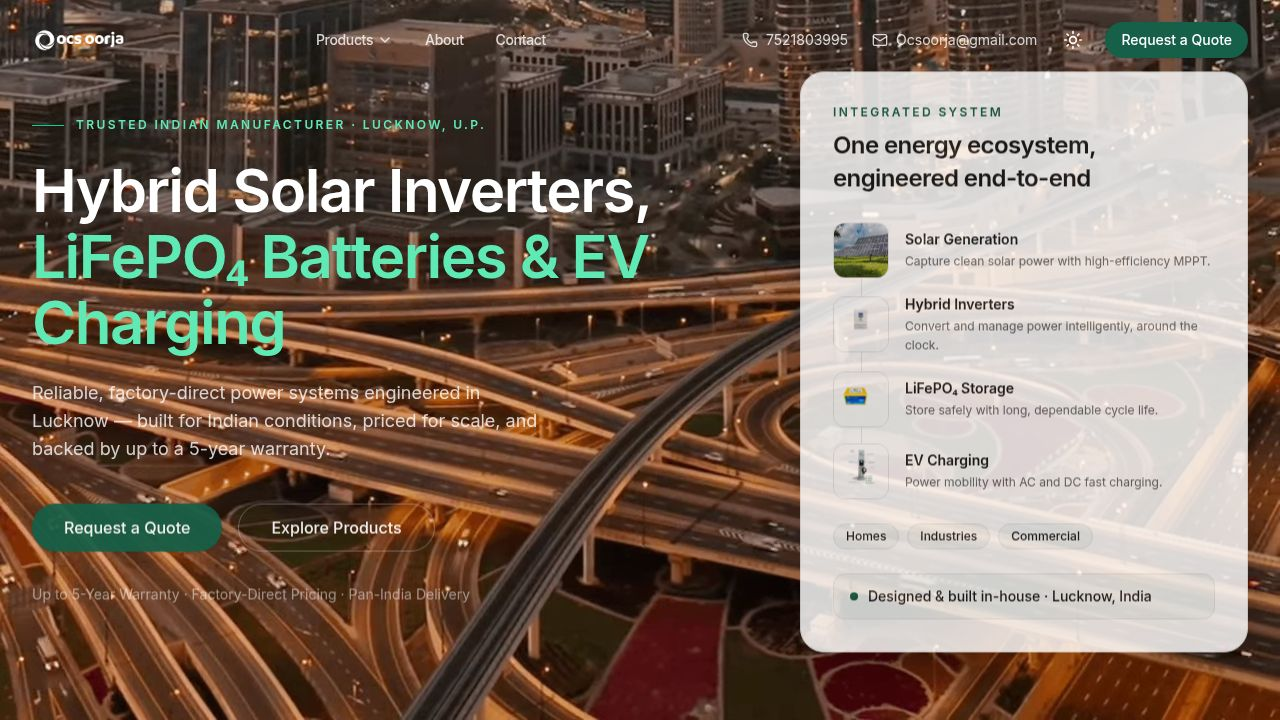
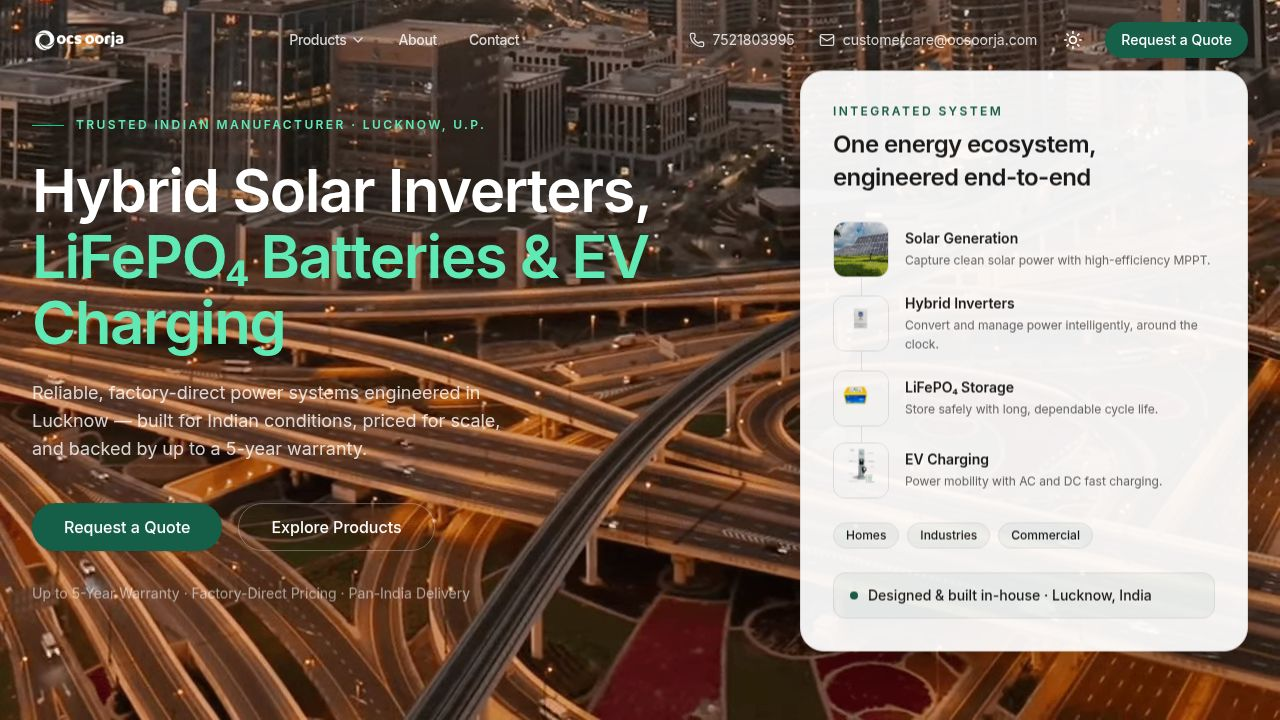
Update website with consistent branding and analytics integration
Centralize site URL and integrate analytics tracking.

Replit-Commit-Author: Agent
Replit-Commit-Session-Id: 6584d2dc-0530-4ae5-95c5-868c3bc24474
Replit-Commit-Checkpoint-Type: full_checkpoint
Replit-Commit-Event-Id: 49f1b618-2b90-4123-950a-4292b9a76e43
Replit-Commit-Screenshot-Url: https://storage.googleapis.com/screenshot-production-us-central1/fdc94f87-8827-4353-a8b5-27162a15f304/6584d2dc-0530-4ae5-95c5-868c3bc24474/MlaVYks
Replit-Helium-Checkpoint-Created: true

diff --git a/artifacts/ocs-oorja/src/components/Analytics.tsx b/artifacts/ocs-oorja/src/components/Analytics.tsx
@@ -1,0 +1,57 @@
+import { useEffect } from "react";
+import { useLocation } from "wouter";
+import { SITE } from "@/data/site";
+
+// Loads Google Analytics 4 (gtag) and the Search Console verification meta tag
+// ONLY when their values are filled in `src/data/site.ts`. Both stay OFF while
+// the corresponding config value is an empty string. Also records a page view
+// on every in-app route change (single-page-app navigation).
+export function Analytics() {
+  const [location] = useLocation();
+
+  // One-time: inject the Search Console "HTML tag" verification meta.
+  useEffect(() => {
+    const token = SITE.googleSiteVerification;
+    if (!token) return;
+    if (document.querySelector('meta[name="google-site-verification"]')) return;
+    const meta = document.createElement("meta");
+    meta.setAttribute("name", "google-site-verification");
+    meta.setAttribute("content", token);
+    document.head.appendChild(meta);
+  }, []);
+
+  // One-time: load and initialise GA4.
+  useEffect(() => {
+    const id = SITE.ga4MeasurementId;
+    if (!id || document.getElementById("ga4-src")) return;
+
+    const lib = document.createElement("script");
+    lib.id = "ga4-src";
+    lib.async = true;
+    lib.src = `https://www.googletagmanager.com/gtag/js?id=${id}`;
+    document.head.appendChild(lib);
+
+    const init = document.createElement("script");
+    init.id = "ga4-init";
+    init.innerHTML =
+      `window.dataLayer=window.dataLayer||[];` +
+      `function gtag(){dataLayer.push(arguments);}` +
+      `gtag('js',new Date());` +
+      `gtag('config','${id}',{send_page_view:false});`;
+    document.head.appendChild(init);
+  }, []);
+
+  // Track a page view on each route change (initial load included).
+  useEffect(() => {
+    if (!SITE.ga4MeasurementId) return;
+    const w = window as unknown as { gtag?: (...args: unknown[]) => void };
+    if (typeof w.gtag !== "function") return;
+    w.gtag("event", "page_view", {
+      page_path: location,
+      page_location: window.location.href,
+      page_title: document.title,
+    });
+  }, [location]);
+
+  return null;
+}

diff --git a/artifacts/ocs-oorja/vite.config.ts b/artifacts/ocs-oorja/vite.config.ts
@@ -3,6 +3,36 @@ import react from "@vitejs/plugin-react";
 import tailwindcss from "@tailwindcss/vite";
 import path from "path";
 import runtimeErrorOverlay from "@replit/vite-plugin-runtime-error-modal";
+import fs from "fs";
+import { SITE } from "./src/data/site";
+import { products } from "./src/data/products";
+
+// Generate public/sitemap.xml from the current routes + product catalog so it
+// stays in sync automatically — adding a product never requires editing the
+// sitemap. Runs on every `vite` / `vite build` invocation.
+function generateSitemap() {
+  try {
+    const staticPaths = ["/", "/about", "/contact", "/products"];
+    const productPaths = products.map((p) => `/products/${p.slug}`);
+    const today = new Date().toISOString().slice(0, 10);
+    const urls = [...staticPaths, ...productPaths]
+      .map((p) => {
+        const priority =
+          p === "/" ? "1.0" : p.startsWith("/products/") ? "0.7" : "0.8";
+        return `  <url>\n    <loc>${SITE.url}${p}</loc>\n    <lastmod>${today}</lastmod>\n    <changefreq>weekly</changefreq>\n    <priority>${priority}</priority>\n  </url>`;
+      })
+      .join("\n");
+    const xml = `<?xml version="1.0" encoding="UTF-8"?>\n<urlset xmlns="http://www.sitemaps.org/schemas/sitemap/0.9">\n${urls}\n</urlset>\n`;
+    fs.writeFileSync(
+      path.resolve(import.meta.dirname, "public/sitemap.xml"),
+      xml,
+    );
+  } catch (err) {
+    console.warn("[sitemap] generation skipped:", err);
+  }
+}
+
+generateSitemap();
 
 const rawPort = process.env.PORT;
 

diff --git a/artifacts/ocs-oorja/src/data/site.ts b/artifacts/ocs-oorja/src/data/site.ts
@@ -1,0 +1,24 @@
+// =============================================================================
+// OCS OORJA — Site-wide technical configuration (SINGLE SOURCE)
+// =============================================================================
+// Non-developers: this file holds a few site-wide settings. Paste the values
+// Google gives you and the features switch on automatically — no other edit is
+// needed anywhere. Leave a value as an empty string ("") to keep it OFF.
+// =============================================================================
+
+export const SITE = {
+  // The site's public address. Used for canonical URLs and the sitemap.
+  // No trailing slash.
+  url: "https://www.ocsoorja.com",
+
+  // Google Analytics 4 Measurement ID, e.g. "G-XXXXXXXXXX".
+  // Find it in Google Analytics → Admin → Data streams → your web stream.
+  // Leave "" to keep analytics OFF.
+  ga4MeasurementId: "",
+
+  // Google Search Console verification token — the value inside the
+  // <meta name="google-site-verification" content="…"> tag Google gives you
+  // when you choose the "HTML tag" method. Leave "" if you verified another
+  // way (e.g. through Google Analytics or a DNS record).
+  googleSiteVerification: "",
+} as const;

diff --git a/artifacts/ocs-oorja/index.html b/artifacts/ocs-oorja/index.html
@@ -3,15 +3,25 @@
   <head>
     <meta charset="UTF-8" />
     <meta name="viewport" content="width=device-width, initial-scale=1.0, maximum-scale=1" />
-    <title>OCS OORJA</title>
-    <meta name="description" content="OCS OORJA — built on Replit. Update this description to reflect the app." />
+    <title>OCS OORJA — Hybrid Solar Inverters, LiFePO₄ Batteries &amp; EV Chargers</title>
+    <meta name="description" content="OCS OORJA is an Indian manufacturer of hybrid solar inverters, LiFePO₄ batteries, energy storage (BESS) and EV chargers — factory-direct power systems engineered in Lucknow for Indian conditions." />
     <meta name="robots" content="index, follow" />
-    <meta property="og:title" content="OCS OORJA" />
-    <meta property="og:description" content="OCS OORJA — built on Replit. Update this description to reflect the app." />
+    <link rel="canonical" href="https://www.ocsoorja.com/" />
+
+    <!-- Open Graph (Facebook, LinkedIn, WhatsApp) -->
     <meta property="og:type" content="website" />
+    <meta property="og:site_name" content="OCS OORJA" />
+    <meta property="og:title" content="OCS OORJA — Clean Energy &amp; EV Charging Manufacturer" />
+    <meta property="og:description" content="Hybrid solar inverters, LiFePO₄ batteries, energy storage (BESS) and EV chargers — factory-direct, engineered in Lucknow for Indian conditions." />
+    <meta property="og:url" content="https://www.ocsoorja.com/" />
+    <meta property="og:image" content="https://www.ocsoorja.com/opengraph.jpg" />
+
+    <!-- Twitter / X -->
     <meta name="twitter:card" content="summary_large_image" />
-    <meta name="twitter:title" content="OCS OORJA" />
-    <meta name="twitter:description" content="OCS OORJA — built on Replit. Update this description to reflect the app." />
+    <meta name="twitter:title" content="OCS OORJA — Clean Energy &amp; EV Charging Manufacturer" />
+    <meta name="twitter:description" content="Hybrid solar inverters, LiFePO₄ batteries, energy storage (BESS) and EV chargers — factory-direct, engineered in Lucknow for Indian conditions." />
+    <meta name="twitter:image" content="https://www.ocsoorja.com/opengraph.jpg" />
+
     <link rel="icon" type="image/svg+xml" href="/favicon.svg" />
     <link rel="preconnect" href="https://fonts.googleapis.com">
     <link rel="preconnect" href="https://fonts.gstatic.com" crossorigin>

diff --git a/artifacts/ocs-oorja/src/lib/seo.ts b/artifacts/ocs-oorja/src/lib/seo.ts
@@ -3,6 +3,7 @@
  */
 
 import { BRAND, CONTACT } from "@/data/brand";
+import { SITE } from "@/data/site";
 
 interface OrganizationSchema {
   "@context": string;
@@ -81,8 +82,8 @@ export function getOrganizationSchema(): OrganizationSchema {
     "@type": "Organization",
     name: "OCS OORJA",
     alternateName: "OCS OORJA Green Energy Solutions",
-    url: "https://www.ocsoorja.com",
-    logo: "https://www.ocsoorja.com/images/OCS_OORJA_logo_landscape.png",
+    url: SITE.url,
+    logo: `${SITE.url}/images/OCS_OORJA_logo_landscape.png`,
     description: BRAND.positioning,
     address: {
       "@type": "PostalAddress",

diff --git a/artifacts/ocs-oorja/src/components/layout/Footer.tsx b/artifacts/ocs-oorja/src/components/layout/Footer.tsx
@@ -39,10 +39,10 @@ export default function Footer() {
         <div className="space-y-5">
           <h3 className="text-sm font-semibold">Contact</h3>
           <ul className="space-y-3 text-sm text-foreground/70">
-            <li className="flex items-start gap-3"><Phone className="mt-1 h-4 w-4 flex-shrink-0" /> <span>7521803995</span></li>
+            <li className="flex items-start gap-3"><Phone className="mt-1 h-4 w-4 flex-shrink-0" /> <a href="tel:+917521803995" className="hover:text-foreground">7521803995</a></li>
             <li className="flex items-start gap-3"><Mail className="mt-1 h-4 w-4 flex-shrink-0" /> <a href={CONTACT.emailHref} className="hover:text-foreground">{CONTACT.email}</a></li>
             <li className="flex items-start gap-3"><MapPin className="mt-1 h-4 w-4 flex-shrink-0" />
-              <span>Commercial Unit No. 304 on 3rd Floor Royal Plaza, Block-3 in IT Park-2, at Sushant Golf City, Lucknow</span>
+              <a href="https://www.google.com/maps/search/?api=1&query=Royal+Plaza+IT+Park-2+Sushant+Golf+City+Lucknow" target="_blank" rel="noopener noreferrer" className="hover:text-foreground">Commercial Unit No. 304 on 3rd Floor Royal Plaza, Block-3 in IT Park-2, at Sushant Golf City, Lucknow</a>
             </li>
           </ul>
         </div>

diff --git a/artifacts/ocs-oorja/src/pages/about.tsx b/artifacts/ocs-oorja/src/pages/about.tsx
@@ -1,4 +1,5 @@
 import { Seo } from "@/components/Seo";
+import { SITE } from "@/data/site";
 import { Container } from "@/components/layout/Container";
 import { SectionHeading } from "@/components/ui/SectionHeading";
 import { CheckCircle2, Leaf, ShieldCheck, Cpu, Sparkles, ArrowRight } from "lucide-react";
@@ -11,7 +12,7 @@ export default function AboutPage() {
       <Seo
         title="About OCS OORJA"
         description={`${BRAND.positioning} Learn about our engineering expertise, capabilities, and commitment to safe, reliable clean-energy systems.`}
-        canonical="https://www.ocsoorja.com/about"
+        canonical={`${SITE.url}/about`}
       />
       <Container>
         <SectionHeading

diff --git a/artifacts/ocs-oorja/src/pages/contact.tsx b/artifacts/ocs-oorja/src/pages/contact.tsx
@@ -1,4 +1,5 @@
 import { Seo } from "@/components/Seo";
+import { SITE } from "@/data/site";
 import { Container } from "@/components/layout/Container";
 import { SectionHeading } from "@/components/ui/SectionHeading";
 import ContactForm from "@/components/contact/ContactForm";
@@ -11,7 +12,7 @@ export default function ContactPage() {
       <Seo
         title="Contact Us - OCS OORJA | LiFePO₄ Battery Manufacturer Lucknow"
         description={`${BRAND.positioning} Request a quote for hybrid solar inverters, LiFePO₄ batteries, energy storage, or EV chargers — Phone: 7521803995 | Email: ${CONTACT.email}`}
-        canonical="https://www.ocsoorja.com/contact"
+        canonical={`${SITE.url}/contact`}
       />
       <Container>
         <SectionHeading

diff --git a/artifacts/ocs-oorja/src/pages/home.tsx b/artifacts/ocs-oorja/src/pages/home.tsx
@@ -9,6 +9,7 @@ import FeaturedProducts from "@/components/sections/FeaturedProducts";
 import Insights from "@/components/sections/Insights";
 import FinalCta from "@/components/sections/FinalCta";
 import { getOrganizationSchema, getLocalBusinessSchema, renderJsonLd } from "@/lib/seo";
+import { SITE } from "@/data/site";
 
 export default function Home() {
   const organizationSchema = getOrganizationSchema();
@@ -19,7 +20,7 @@ export default function Home() {
       <Seo
         title="OCS OORJA — LiFePO₄ Batteries, Inverters & EV Chargers | Lucknow"
         description="Indian manufacturer of LiFePO₄ batteries, hybrid inverters and EV chargers based in Lucknow. We supply lithium battery packs and solar energy storage systems across India."
-        canonical="https://www.ocsoorja.com/"
+        canonical={`${SITE.url}/`}
       />
       {/* Structured Data for SEO */}
       <script

diff --git a/artifacts/ocs-oorja/src/pages/product-detail.tsx b/artifacts/ocs-oorja/src/pages/product-detail.tsx
@@ -1,4 +1,5 @@
 import { Seo } from "@/components/Seo";
+import { SITE as siteConfig } from "@/data/site";
 import { Link, useParams } from "wouter";
 import {
   getProductBySlug,
@@ -39,7 +40,7 @@ import {
 } from "@/lib/seo";
 import { HEADLINES, CTAS } from "@/data/brand";
 
-const SITE = "https://www.ocsoorja.com";
+const SITE = siteConfig.url;
 
 // Map the lucide icon NAME stored in family data to its component (UI layer).
 const FAMILY_ICONS: Record<string, LucideIcon> = {

diff --git a/artifacts/ocs-oorja/src/pages/products.tsx b/artifacts/ocs-oorja/src/pages/products.tsx
@@ -2,6 +2,7 @@ import { useState, useCallback, useMemo, useRef, useLayoutEffect } from "react";
 import { Link, useSearch } from "wouter";
 import { Search } from "lucide-react";
 import { Seo } from "@/components/Seo";
+import { SITE as siteConfig } from "@/data/site";
 import {
   products,
   productsSortedByDateDesc,
@@ -21,7 +22,7 @@ import {
   renderJsonLd,
 } from "@/lib/seo";
 
-const SITE = "https://www.ocsoorja.com";
+const SITE = siteConfig.url;
 
 export default function Products() {
   const sortedProducts = useMemo(() => productsSortedByDateDesc(products), []);

diff --git a/artifacts/ocs-oorja/src/App.tsx b/artifacts/ocs-oorja/src/App.tsx
@@ -11,6 +11,7 @@ import Products from "@/pages/products";
 import ProductDetail from "@/pages/product-detail";
 import DesignSystem from "@/pages/design-system";
 import ScrollRestoration from "@/components/ScrollRestoration";
+import { Analytics } from "@/components/Analytics";
 
 const queryClient = new QueryClient();
 
@@ -36,6 +37,7 @@ function App() {
       <TooltipProvider>
         <WouterRouter base={import.meta.env.BASE_URL.replace(/\/$/, "")}>
           <ScrollRestoration />
+          <Analytics />
           <Router />
         </WouterRouter>
         <Toaster />